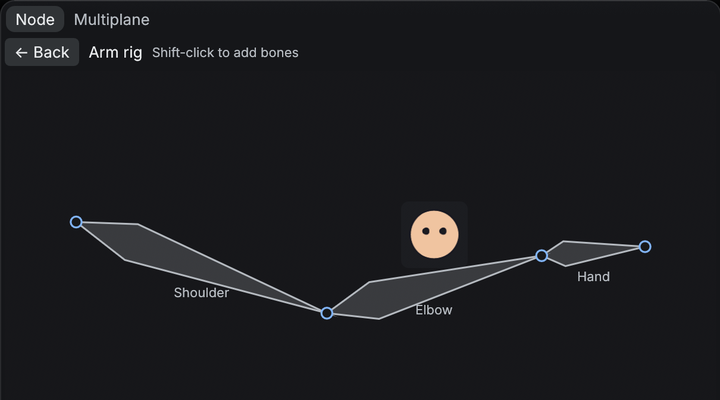
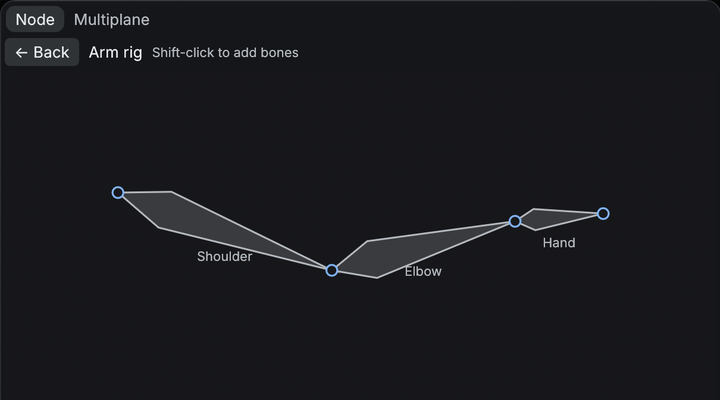
Remove placeholder character from the public showcase

Changed region(s): [[0.0917, 0.45, 0.9167, 0.81]]

diff --git a/docs/index.html b/docs/index.html
@@ -161,7 +161,7 @@
           <dt>Build and pose a smart rig</dt>
           <dd>
             Set up bones and assign drawings from Node Properties. Plant a hand or foot with a locked anchor, use Aim to guide the rig, and adjust spring stiffness or stretch for shoulders, hips, and limbs. Shift-click bones to edit their shared settings together.
-            <img src="presentation/skeleton-setup.png" width="720" height="400" loading="lazy" alt="Symphony’s Skeleton Setup shows the bones of an arm rig with its attached artwork.">
+            <img src="presentation/skeleton-setup.png" width="720" height="400" loading="lazy" alt="Symphony’s Skeleton Setup shows the shoulder, elbow and hand bones of an arm rig.">
           </dd>
         </div>
         <div>
@@ -203,40 +203,24 @@
           <dt>Recolour drawings from one swatch</dt>
           <dd>
             Edit a scene palette colour once and every stroke or fill linked to it updates together.
-            <picture>
-              <source media="(prefers-reduced-motion: reduce)" srcset="presentation/linked-palette.png">
-              <img src="presentation/linked-palette.gif" width="720" height="400" loading="lazy" alt="Changing the Skin swatch recolours the character in the Camera view.">
-            </picture>
           </dd>
         </div>
         <div>
           <dt>Stage a multiplane camera move</dt>
           <dd>
             Set depth on drawing pegs and animate the camera for parallax. Maintain Size keeps the drawing in place while you set its depth.
-            <picture>
-              <source media="(prefers-reduced-motion: reduce)" srcset="presentation/multiplane-parallax.png">
-              <img src="presentation/multiplane-parallax.gif" width="720" height="400" loading="lazy" alt="A camera pan shifts the foreground character more than the distant horizon.">
-            </picture>
           </dd>
         </div>
         <div>
           <dt>Position artwork with effects paused</dt>
           <dd>
             Switch off Render effects while positioning artwork in Camera. Turn off Bars to see artwork outside the frame while keeping exports framed.
-            <picture>
-              <source media="(prefers-reduced-motion: reduce)" srcset="presentation/draft-camera.png">
-              <img src="presentation/draft-camera.gif" width="720" height="400" loading="lazy" alt="The Camera view shows the same scene with its blur effect on, then temporarily bypassed.">
-            </picture>
           </dd>
         </div>
         <div>
           <dt>Resume an interrupted export</dt>
           <dd>
             Restart the same export to reuse finished frames after a crash or cancellation. This works for movies, GIFs, and image sequences.
-            <picture>
-              <source media="(prefers-reduced-motion: reduce)" srcset="presentation/resumable-export.png">
-              <img src="presentation/resumable-export.gif" width="720" height="400" loading="lazy" alt="An image sequence export is restarted and reports the finished frames it reused.">
-            </picture>
           </dd>
         </div>
         <div>
@@ -273,10 +257,6 @@
           <dt>Turn a drawing into an editable matte</dt>
           <dd>
             Switch a drawing to a mask and back while keeping its artwork, exposures, and node connections.
-            <picture>
-              <source media="(prefers-reduced-motion: reduce)" srcset="presentation/reversible-matte.png">
-              <img src="presentation/reversible-matte.gif" width="720" height="400" loading="lazy" alt="A Drawing node switches to Matte while its graph connections stay in place.">
-            </picture>
           </dd>
         </div>
         <div>
@@ -285,7 +265,7 @@
             Type what you want to do. Results prioritize the panel you’re working in, from adding an effect to running a timing command. Short queries work for finding tools and effects by name.
             <picture>
               <source media="(prefers-reduced-motion: reduce)" srcset="presentation/tab-search.png">
-              <img src="presentation/tab-search.gif" width="720" height="400" loading="lazy" alt="Tab Search narrows suggested commands to Add Blur as the query is typed.">
+              <img src="presentation/tab-search.gif" width="720" height="400" loading="lazy" alt="Tab Search shows commands for Duplicate Drawing and Add Blur over an empty scene.">
             </picture>
           </dd>
         </div>
